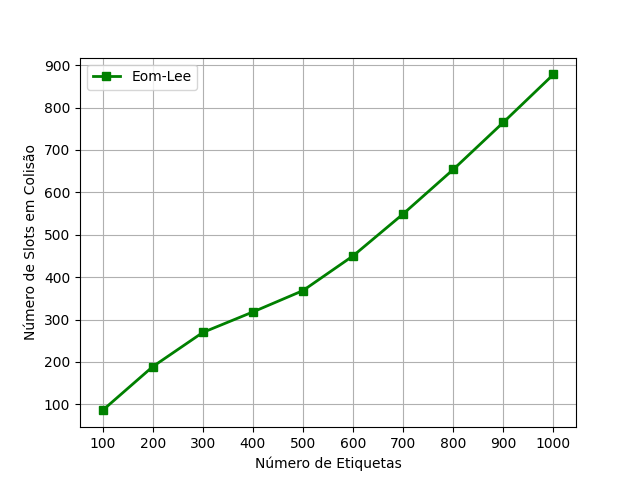
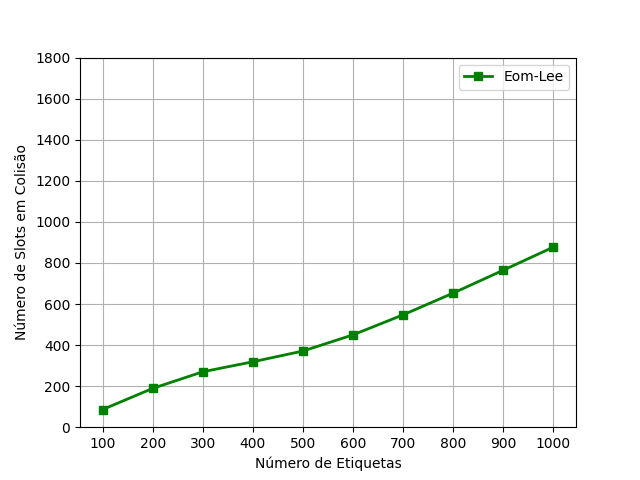
Add yticks to some graph plots

diff --git a/core/estimators.py b/core/estimators.py
@@ -32,8 +32,9 @@ def dfsa(estimator, current_tag, current_frame):
     total_slots = current_frame
     total_collisions = 0
     total_empty = 0
+    total_success = 0
+    total_time = 0
 
-    start_time = time.time()
     while current_tag > 0:
         frame = [0] * current_frame
 
@@ -54,20 +55,24 @@ def dfsa(estimator, current_tag, current_frame):
                 collisions += 1
 
         current_tag -= success
+
         if estimator == 0:
+            start_time = time.time()
             current_frame = lower_bound(collisions)
+            total_time += time.time() - start_time
         elif estimator == 1:
+            start_time = time.time()
             current_frame = eom_lee(collisions, success, current_frame)
+            total_time += time.time() - start_time
         else:
             raise NotImplementedError()
+
         total_collisions += collisions
         total_slots += current_frame
         total_empty += empty
+        total_success += success
 
-    end_time = time.time()
-    total_time = end_time - start_time
-
-    return total_collisions, total_slots, total_empty, total_time
+    return total_collisions, total_slots, total_empty, total_success, total_time
 
 
 def simulate(
@@ -91,6 +96,7 @@ def simulate(
         list_avg_slots = []
         list_avg_empty = []
         list_avg_time = []
+        list_avg_efficiency = []
         for tag_index in range(1, int(max_tag_amount / initial_tag_amount) + 1):
             tags = tag_index * tag_increment_interval
 
@@ -100,6 +106,7 @@ def simulate(
             avg_collisions = 0.0
             avg_slots = 0.0
             avg_empty = 0.0
+            avg_success = 0.0
             avg_time = 0.0
 
             current_repetition = max_repetition
@@ -108,29 +115,40 @@ def simulate(
                 current_tag = tags
                 current_frame = initial_frame_size
 
-                total_collisions, total_slots, total_empty, total_time = dfsa(
-                    estimator, current_tag, current_frame
-                )
+                (
+                    total_collisions,
+                    total_slots,
+                    total_empty,
+                    total_success,
+                    total_time,
+                ) = dfsa(estimator, current_tag, current_frame)
 
                 avg_collisions += total_collisions
                 avg_slots += total_slots
                 avg_empty += total_empty
+                avg_success += total_success
                 avg_time += total_time
 
             avg_collisions /= current_repetition
             avg_slots /= current_repetition
             avg_empty /= current_repetition
+            avg_success /= current_repetition
             avg_time /= current_repetition
 
             list_avg_collisions.append(avg_collisions)
             list_avg_slots.append(avg_slots)
             list_avg_empty.append(avg_empty)
             list_avg_time.append(avg_time)
+            list_avg_efficiency.append(avg_success / avg_slots)
 
             list_tags_interval.append(tags)
 
             print(
-                list_tags_interval, list_avg_collisions, list_avg_slots, list_avg_empty
+                list_tags_interval,
+                list_avg_collisions,
+                list_avg_slots,
+                list_avg_efficiency,
+                list_avg_empty,
             )
         graph_plot_file_name_prefix = ""
         if estimator == 0:
@@ -145,6 +163,7 @@ def simulate(
             "list_avg_collisions": list_avg_collisions,
             "list_avg_slots": list_avg_slots,
             "list_avg_empty": list_avg_empty,
+            "list_avg_efficiency": list_avg_efficiency,
             "list_avg_time": list_avg_time,
         }
 
@@ -170,6 +189,7 @@ def simulation_plot_graphs(estimator_results):
             estimator_results[result]["list_tags_interval"],
             estimator_results[result]["list_tags_interval"],
         )
+        plt.yticks([i * 200 for i in range(10)], [i * 200 for i in range(10)])
         plt.legend()
         plt.grid(True)
         plt.savefig(
@@ -192,6 +212,7 @@ def simulation_plot_graphs(estimator_results):
             estimator_results[result]["list_tags_interval"],
             estimator_results[result]["list_tags_interval"],
         )
+        plt.yticks([i * 500 for i in range(8)], [i * 500 for i in range(8)])
         plt.legend()
         plt.grid(True)
         plt.savefig(
@@ -214,10 +235,33 @@ def simulation_plot_graphs(estimator_results):
             estimator_results[result]["list_tags_interval"],
             estimator_results[result]["list_tags_interval"],
         )
+        plt.yticks([i * 100 for i in range(12)], [i * 100 for i in range(12)])
         plt.legend()
         plt.grid(True)
         plt.savefig(
             f"graph_plots/{estimator_results[result]['graph_plot_file_name_prefix']}_n_empty.png"
+        )
+    plt.close()
+
+    for result in estimator_results:
+        plt.xlabel("Número de Etiquetas")
+        plt.ylabel("Eficiência (total sucessos / total slots)")
+        plt.plot(
+            estimator_results[result]["list_tags_interval"],
+            estimator_results[result]["list_avg_efficiency"],
+            linewidth=2,
+            color=colors[result],
+            label=labels[result],
+            marker=markers[result],
+        )
+        plt.xticks(
+            estimator_results[result]["list_tags_interval"],
+            estimator_results[result]["list_tags_interval"],
+        )
+        plt.legend()
+        plt.grid(True)
+        plt.savefig(
+            f"graph_plots/{estimator_results[result]['graph_plot_file_name_prefix']}_n_efficiency.png"
         )
     plt.close()
 
